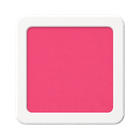
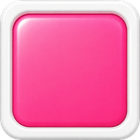
Color Game: replace dice art with edge-to-edge v2 set
New die faces fill the full 140x140 frame (0 transparent padding),
fixing the border/halo from the old 10%-padded art. Reduce DIE_SIZE
to 20% to compensate for the fuller art, soften the gloss overlay,
and cache-bust the face URLs (?v=2).

diff --git a/src/components/colorgame/ColorDice.tsx b/src/components/colorgame/ColorDice.tsx
@@ -4,12 +4,12 @@ import { useEffect, useRef } from "react";
 import type { DieColor } from "@/lib/colorgame";
 
 const FACE_MAP: Record<DieColor, string> = {
-  red: "/colorgame/dice/die_face_red.png",
-  blue: "/colorgame/dice/die_face_blue.png",
-  yellow: "/colorgame/dice/die_face_yellow.png",
-  pink: "/colorgame/dice/die_face_pink.png",
-  white: "/colorgame/dice/die_face_white.png",
-  green: "/colorgame/dice/die_face_green.png",
+  red: "/colorgame/dice/die_face_red.png?v=2",
+  blue: "/colorgame/dice/die_face_blue.png?v=2",
+  yellow: "/colorgame/dice/die_face_yellow.png?v=2",
+  pink: "/colorgame/dice/die_face_pink.png?v=2",
+  white: "/colorgame/dice/die_face_white.png?v=2",
+  green: "/colorgame/dice/die_face_green.png?v=2",
 };
 
 const FACE_ORDER: DieColor[] = ["red", "blue", "yellow", "pink", "white", "green"];
@@ -36,7 +36,7 @@ const LAND: Record<DieColor, { x: number; y: number }> = {
 
 // ---- tuned layout constants (verified against the background art) ----
 const PLATFORM_Y = 21;              // ledge Y (% of stage height)
-const DIE_SIZE = 24;                // % of stage width
+const DIE_SIZE = 20;                // % of stage width (art now fills edge-to-edge)
 const REST_X = [28, 50, 72];        // resting die centers (% of stage width)
 const BANDS = [24, 50, 76];         // landing bands (% of stage width)
 const FRAME_T = 2;                  // showcase window top (% of stage height)
@@ -375,8 +375,8 @@ export function ColorDice({ results, phase }: Props) {
                         style={{
                           borderRadius: "16%",
                           background:
-                            "linear-gradient(135deg, rgba(255,255,255,0.4), rgba(255,255,255,0) 42%, rgba(0,0,0,0.14) 100%)",
-                          opacity: 0.65,
+                            "linear-gradient(135deg, rgba(255,255,255,0.35), rgba(255,255,255,0) 45%, rgba(0,0,0,0.12) 100%)",
+                          opacity: 0.5,
                         }}
                       />
                     </div>
